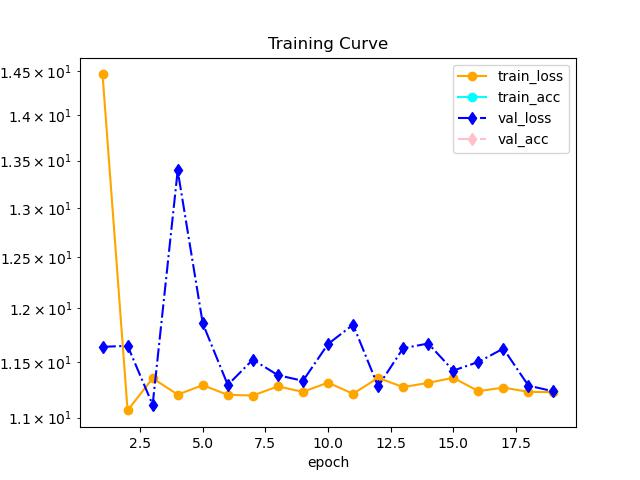
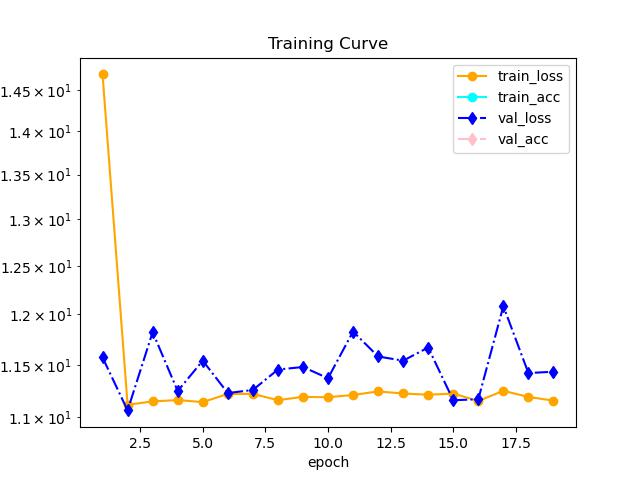
update

diff --git a/CRNN/model/mobilenetv3.py b/CRNN/model/mobilenetv3.py
@@ -1,0 +1,196 @@
+'''MobileNetV3 in PyTorch.
+See the paper "Inverted Residuals and Linear Bottlenecks:
+Mobile Networks for Classification, Detection and Segmentation" for more details.
+'''
+import torch
+import torch.nn as nn
+import torch.nn.functional as F
+from torch.nn import init
+
+
+
+class hswish(nn.Module):
+    def forward(self, x):
+        out = x * F.relu6(x + 3, inplace=True) / 6
+        return out
+
+
+class hsigmoid(nn.Module):
+    def forward(self, x):
+        out = F.relu6(x + 3, inplace=True) / 6
+        return out
+
+
+class SeModule(nn.Module):
+    def __init__(self, in_size, reduction=4):
+        super(SeModule, self).__init__()
+        self.se = nn.Sequential(
+            nn.AdaptiveAvgPool2d(1),
+            nn.Conv2d(in_size, in_size // reduction, kernel_size=1, stride=1, padding=0, bias=False),
+            nn.BatchNorm2d(in_size // reduction),
+            nn.ReLU(inplace=True),
+            nn.Conv2d(in_size // reduction, in_size, kernel_size=1, stride=1, padding=0, bias=False),
+            nn.BatchNorm2d(in_size),
+            hsigmoid()
+        )
+
+    def forward(self, x):
+        return x * self.se(x)
+
+
+class Block(nn.Module):
+    '''expand + depthwise + pointwise'''
+    def __init__(self, kernel_size, in_size, expand_size, out_size, nolinear, semodule, stride):
+        super(Block, self).__init__()
+        self.stride = stride
+        self.se = semodule
+
+        self.conv1 = nn.Conv2d(in_size, expand_size, kernel_size=1, stride=1, padding=0, bias=False)
+        self.bn1 = nn.BatchNorm2d(expand_size)
+        self.nolinear1 = nolinear
+        self.conv2 = nn.Conv2d(expand_size, expand_size, kernel_size=kernel_size, stride=stride, padding=kernel_size//2, groups=expand_size, bias=False)
+        self.bn2 = nn.BatchNorm2d(expand_size)
+        self.nolinear2 = nolinear
+        self.conv3 = nn.Conv2d(expand_size, out_size, kernel_size=1, stride=1, padding=0, bias=False)
+        self.bn3 = nn.BatchNorm2d(out_size)
+
+        self.shortcut = nn.Sequential()
+        if stride == 1 and in_size != out_size:
+            self.shortcut = nn.Sequential(
+                nn.Conv2d(in_size, out_size, kernel_size=1, stride=1, padding=0, bias=False),
+                nn.BatchNorm2d(out_size),
+            )
+
+    def forward(self, x):
+        out = self.nolinear1(self.bn1(self.conv1(x)))
+        out = self.nolinear2(self.bn2(self.conv2(out)))
+        out = self.bn3(self.conv3(out))
+        if self.se != None:
+            out = self.se(out)
+        out = out + self.shortcut(x) if self.stride==1 else out
+        return out
+
+
+class MobileNetV3_Large(nn.Module):
+    def __init__(self, num_classes=1000):
+        super(MobileNetV3_Large, self).__init__()
+        self.conv1 = nn.Conv2d(3, 16, kernel_size=3, stride=2, padding=1, bias=False)
+        self.bn1 = nn.BatchNorm2d(16)
+        self.hs1 = hswish()
+
+        self.bneck = nn.Sequential(
+            Block(3, 16, 16, 16, nn.ReLU(inplace=True), None, 1),
+            Block(3, 16, 64, 24, nn.ReLU(inplace=True), None, 2),
+            Block(3, 24, 72, 24, nn.ReLU(inplace=True), None, 1),
+            Block(5, 24, 72, 40, nn.ReLU(inplace=True), SeModule(40), 2),
+            Block(5, 40, 120, 40, nn.ReLU(inplace=True), SeModule(40), 1),
+            Block(5, 40, 120, 40, nn.ReLU(inplace=True), SeModule(40), 1),
+            Block(3, 40, 240, 80, hswish(), None, 2),
+            Block(3, 80, 200, 80, hswish(), None, 1),
+            Block(3, 80, 184, 80, hswish(), None, 1),
+            Block(3, 80, 184, 80, hswish(), None, 1),
+            Block(3, 80, 480, 112, hswish(), SeModule(112), 1),
+            Block(3, 112, 672, 112, hswish(), SeModule(112), 1),
+            Block(5, 112, 672, 160, hswish(), SeModule(160), 1),
+            Block(5, 160, 672, 160, hswish(), SeModule(160), 2),
+            Block(5, 160, 960, 160, hswish(), SeModule(160), 1),
+        )
+
+
+        self.conv2 = nn.Conv2d(160, 960, kernel_size=1, stride=1, padding=0, bias=False)
+        self.bn2 = nn.BatchNorm2d(960)
+        self.hs2 = hswish()
+        self.linear3 = nn.Linear(960, 1280)
+        self.bn3 = nn.BatchNorm1d(1280)
+        self.hs3 = hswish()
+        self.linear4 = nn.Linear(1280, num_classes)
+        self.init_params()
+
+    def init_params(self):
+        for m in self.modules():
+            if isinstance(m, nn.Conv2d):
+                init.kaiming_normal_(m.weight, mode='fan_out')
+                if m.bias is not None:
+                    init.constant_(m.bias, 0)
+            elif isinstance(m, nn.BatchNorm2d):
+                init.constant_(m.weight, 1)
+                init.constant_(m.bias, 0)
+            elif isinstance(m, nn.Linear):
+                init.normal_(m.weight, std=0.001)
+                if m.bias is not None:
+                    init.constant_(m.bias, 0)
+
+    def forward(self, x):
+        out = self.hs1(self.bn1(self.conv1(x)))
+        out = self.bneck(out)
+        out = self.hs2(self.bn2(self.conv2(out)))
+        out = F.avg_pool2d(out, 7)
+        out = out.view(out.size(0), -1)
+        out = self.hs3(self.bn3(self.linear3(out)))
+        out = self.linear4(out)
+        return out
+
+
+
+class MobileNetV3_Small(nn.Module):
+    def __init__(self, num_classes=1000):
+        super(MobileNetV3_Small, self).__init__()
+        self.conv1 = nn.Conv2d(3, 16, kernel_size=3, stride=2, padding=1, bias=False)
+        self.bn1 = nn.BatchNorm2d(16)
+        self.hs1 = hswish()
+
+        self.bneck = nn.Sequential(
+            Block(3, 16, 16, 16, nn.ReLU(inplace=True), SeModule(16), 2),
+            Block(3, 16, 72, 24, nn.ReLU(inplace=True), None, (2,1)),
+            Block(3, 24, 88, 24, nn.ReLU(inplace=True), None, 1),
+            Block(5, 24, 96, 40, hswish(), SeModule(40), (2,1)),
+            Block(5, 40, 240, 40, hswish(), SeModule(40), 1),
+            Block(5, 40, 240, 40, hswish(), SeModule(40), 1),
+            Block(5, 40, 120, 48, hswish(), SeModule(48), 1),
+            Block(5, 48, 144, 48, hswish(), SeModule(48), 1),
+            Block(5, 48, 288, 96, hswish(), SeModule(96), (2,1)),
+            Block(5, 96, 576, 96, hswish(), SeModule(96), 1),
+            Block(5, 96, 576, 96, hswish(), SeModule(96), 1),
+        )
+
+
+        self.conv2 = nn.Conv2d(96, 576, kernel_size=1, stride=1, padding=0, bias=False)
+        self.bn2 = nn.BatchNorm2d(576)
+        self.hs2 = hswish()
+        self.linear3 = nn.Linear(576, 1280)
+        self.bn3 = nn.BatchNorm1d(1280)
+        self.hs3 = hswish()
+        self.linear4 = nn.Linear(1280, num_classes)
+        self.init_params()
+
+    def init_params(self):
+        for m in self.modules():
+            if isinstance(m, nn.Conv2d):
+                init.kaiming_normal_(m.weight, mode='fan_out')
+                if m.bias is not None:
+                    init.constant_(m.bias, 0)
+            elif isinstance(m, nn.BatchNorm2d):
+                init.constant_(m.weight, 1)
+                init.constant_(m.bias, 0)
+            elif isinstance(m, nn.Linear):
+                init.normal_(m.weight, std=0.001)
+                if m.bias is not None:
+                    init.constant_(m.bias, 0)
+
+    def forward(self, x):
+        out = self.hs1(self.bn1(self.conv1(x)))
+        out = self.bneck(out)
+        out = self.hs2(self.bn2(self.conv2(out)))
+        out = F.avg_pool2d(out, 7)
+        out = out.view(out.size(0), -1)
+        out = self.hs3(self.bn3(self.linear3(out)))
+        out = self.linear4(out)
+        return out
+
+
+
+def test():
+    net = MobileNetV3_Small()
+    x = torch.randn(2,3,224,224)
+    y = net(x)
+    print(y.size())

diff --git a/CRNN/model/crnn.py b/CRNN/model/crnn.py
@@ -64,17 +64,17 @@ class Attention(nn.Module):
         self.attention_cell = AttentionCell(input_size, hidden_size)
         self.input_size = input_size
         self.hidden_size = hidden_size
-        self.generator = nn.Linear(hidden_size, num_classes-1)
+        self.generator = nn.Linear(hidden_size, num_classes)
         self.processed_batches = 0
 
     def forward(self, feats, text_length):
         self.processed_batches = self.processed_batches + 1
-        nC = feats.size(0)
+        nT = feats.size(0)
         nB = feats.size(1)
-        nT = feats.size(2)
+        nC = feats.size(2)
         hidden_size = self.hidden_size
         input_size = self.input_size
-        print("in=", input_size)
+        print("input=", input_size)
         assert(input_size == nC)
         assert(nB == text_length.numel())
 
@@ -163,15 +163,15 @@ class CRNN(nn.Module):
 
     def forward(self, input,  length):
         conv = self.cnn(input) #input: [10, 1, 32, 280], 
-        print(conv.size())# [10, 512, 1, 251]
+        #print(conv.size())# [10, 512, 1, 251]
         b, c, h, w = conv.size() #output: ([10, 512, 1, 251])
         assert h == 1, '图片高度经过卷积之后必须为1'
         conv = conv.squeeze(2)   #output: ([10, 512, 251])
         conv = conv.permute(2, 0, 1)  # [w, b, c]
-        print(conv.shape) #([251, 10, 11])
+        #print(conv.shape) #([251, 10, 11])
         output = self.rnn(conv)     # seq * batch * n_classes// 25 × batchsize × 251（隐藏节点个数）
-        print(output.shape)     #([251, 10, 11])
-        print(length)
-        #output = self.attention(output, length)
-        print(output.shape)
+        #print(output.shape)     #([251, 10, 11])
+        # print(length)
+        # output = self.attention(output, length)
+        # print(output.shape)
         return output

diff --git a/CRNN/train.py b/CRNN/train.py
@@ -17,6 +17,8 @@ import pandas as pd
 import time
 from log.loss import loss
 from config.configuration import parse_opt
+from model.mobilenetv3 import MobileNetV3_Large
+from model.mobilenetv3 import MobileNetV3_Small
 
 def train(opt):
     if not os.path.exists(opt.name):
@@ -32,7 +34,8 @@ def train(opt):
     # 验证集
     val_loader = get_DataLoader('val', opt)
     criterion = nn.CTCLoss(reduction='sum')
-    crnn = CRNN(opt.imgH, opt.nc, nclass, opt.nh)
+    # crnn=CRNN(opt.imgH, opt.nc, nclass, opt.nh)
+    crnn = MobileNetV3_Large(nclass)
 
     if os.path.exists(opt.weights):
         crnn.load_state_dict(torch.load(opt.weights))

diff --git a/CRNN/train_batch.py b/CRNN/train_batch.py
@@ -11,7 +11,8 @@ def train_batch(crnn, train_iter, optimizer, criterion, device, converter):
     batch_size = images.size(0)
     text, length = converter.encode(labels)
 
-    preds = crnn(images, length) 
+    # preds = crnn(images, length) 
+    preds = crnn(images) 
     preds_size = torch.IntTensor([preds.size(0)] * batch_size)
     print(preds.shape, text.shape, preds_size.shape, length.shape)
 

diff --git a/CRNN/model/tempCodeRunnerFile.py b/CRNN/model/tempCodeRunnerFile.py
@@ -1,0 +1,1 @@
+MobileNetV3_Large
